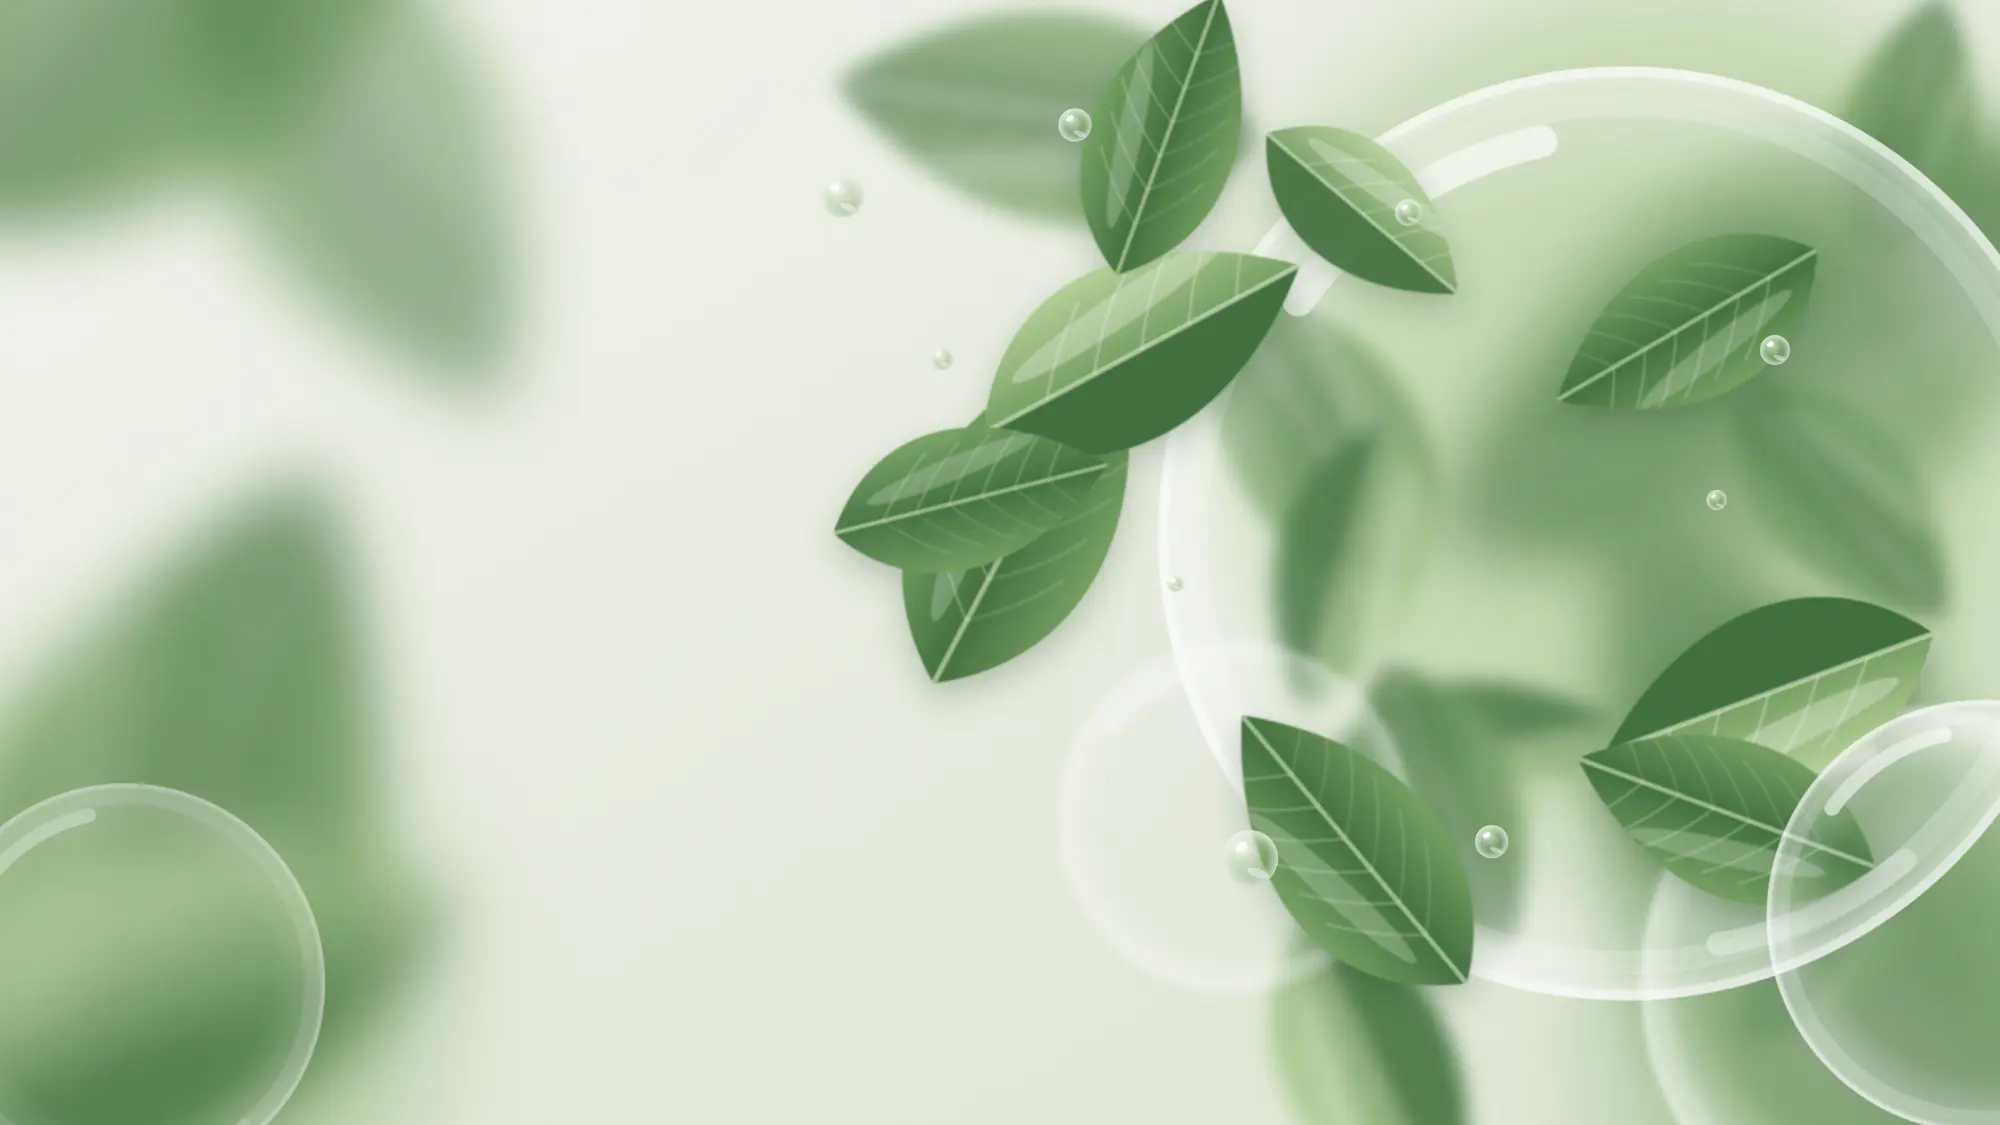
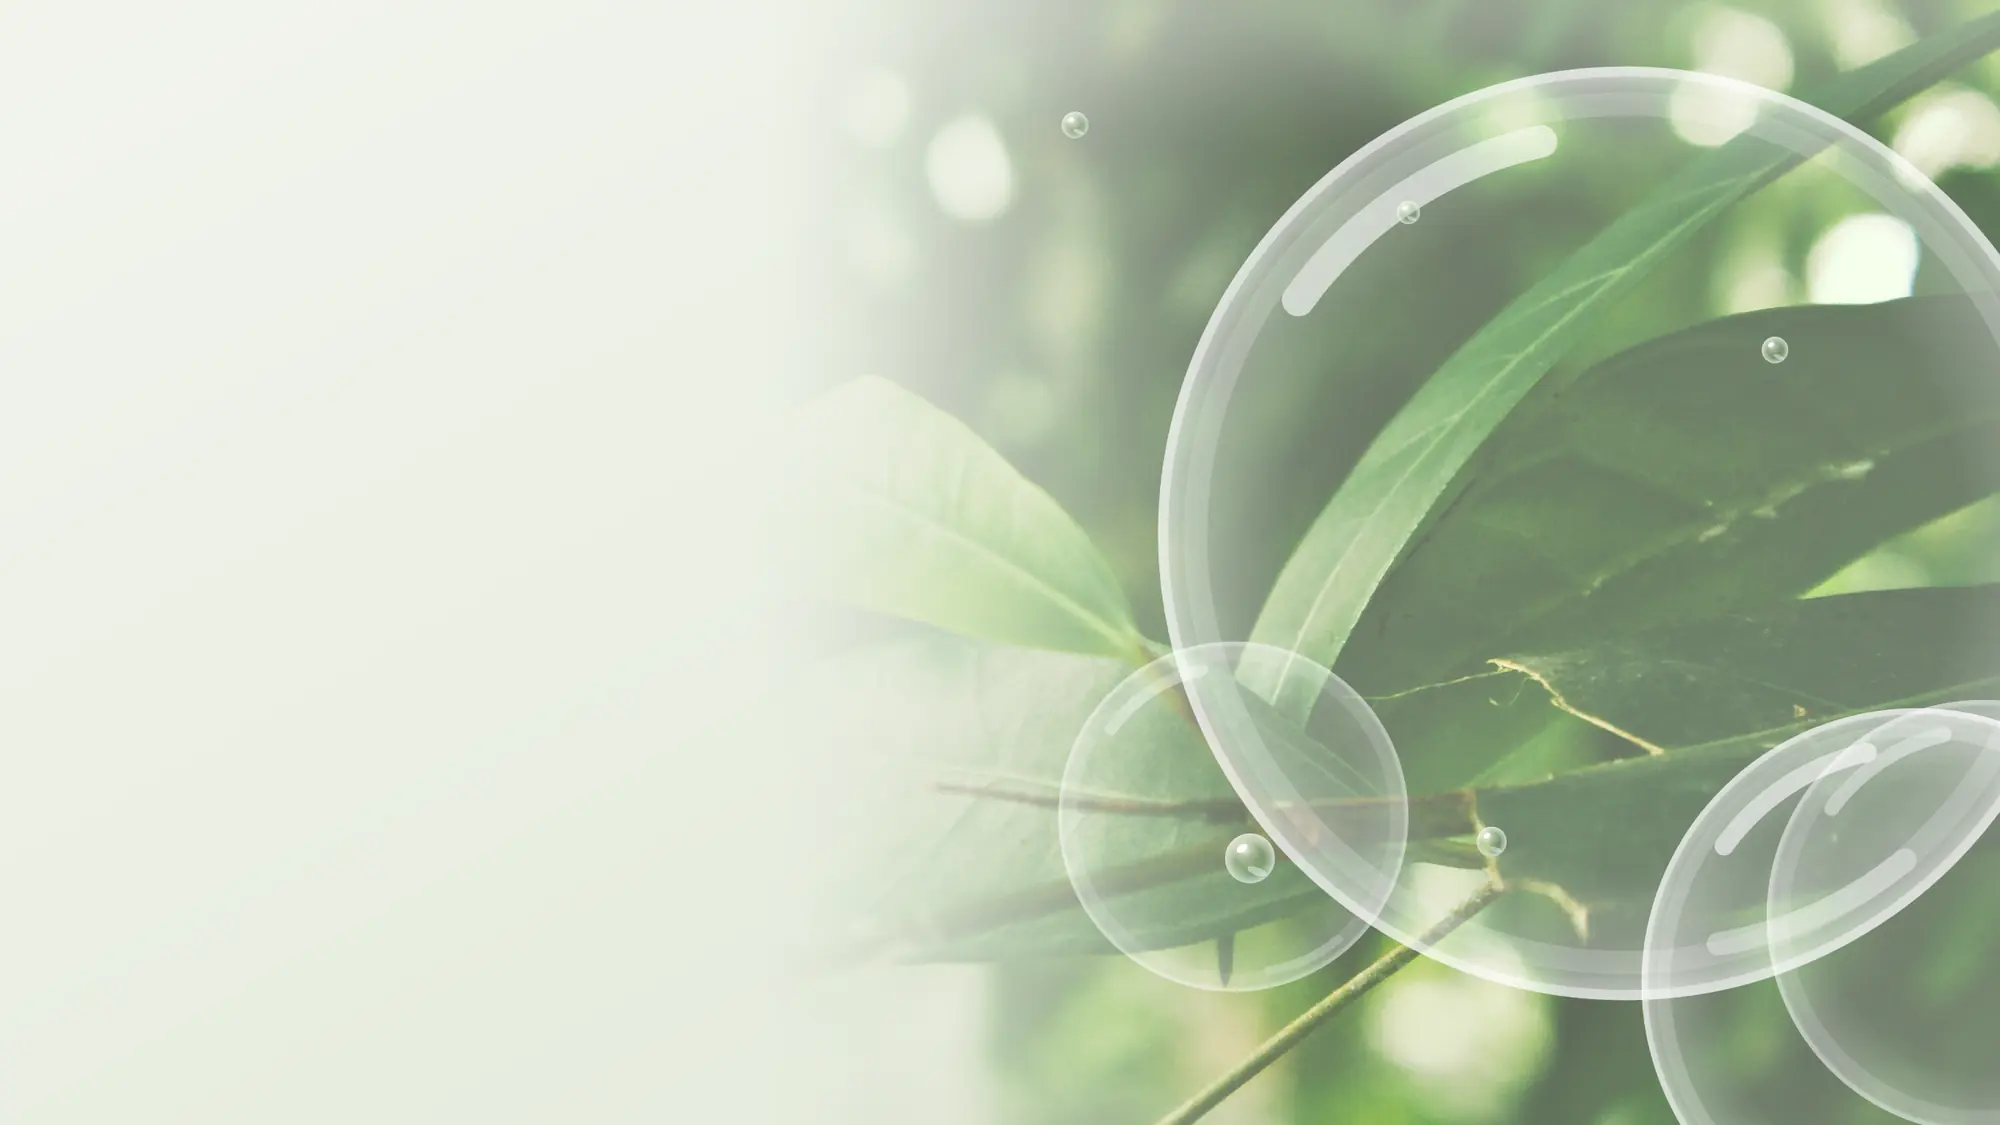
Realistic leaf photo backgrounds, lighter type, translucent buttons, remove hero portrait

diff --git a/app/globals.css b/app/globals.css
@@ -24,14 +24,14 @@ a{color:inherit;text-decoration:none}
 ul{list-style:none}
 :focus-visible{outline:3px solid var(--leaf);outline-offset:3px;border-radius:10px}
 .on-dark :focus-visible{outline-color:#CFE6B6}
-.num{font-family:"Clash Display","FiraGO",sans-serif;font-weight:600;font-variant-numeric:tabular-nums}
+.num{font-family:"Clash Display","FiraGO",sans-serif;font-weight:500;font-variant-numeric:tabular-nums}
 .wrap{width:100%;max-width:calc(var(--wrap) + var(--gut)*2);margin:0 auto;padding:0 var(--gut)}
 .sr{position:absolute;width:1px;height:1px;overflow:hidden;clip:rect(0 0 0 0);white-space:nowrap}
-h1,h2,h3,h4{color:var(--ink);font-weight:700;line-height:1.2;text-wrap:balance}
+h1,h2,h3,h4{color:var(--ink);font-weight:500;line-height:1.2;text-wrap:balance}
 h2{font-size:clamp(30px,3.7vw,54px);line-height:1.15}
-h3{font-size:clamp(19px,1.6vw,22px);line-height:1.3;font-weight:600}
+h3{font-size:clamp(19px,1.6vw,22px);line-height:1.3;font-weight:500}
 .lead{font-size:clamp(16px,1.35vw,19px);color:var(--text);max-width:56ch}
-.eyebrow{display:flex;align-items:center;gap:14px;font-size:14px;font-weight:600;color:var(--sage);margin-bottom:20px}
+.eyebrow{display:flex;align-items:center;gap:14px;font-size:14px;font-weight:500;color:var(--sage);margin-bottom:20px}
 .eyebrow::after{content:"";width:56px;height:1.5px;background:currentColor;opacity:.6}
 .eyebrow.center{justify-content:center}
 .eyebrow.center::before{content:"";width:44px;height:1.5px;background:currentColor;opacity:.6}
@@ -50,15 +50,15 @@ h3{font-size:clamp(19px,1.6vw,22px);line-height:1.3;font-weight:600}
 .vcard,.panel,.plan,.gcard,.tcard,.wk,.fq,.member,.wait input{background:linear-gradient(145deg,rgba(255,255,255,.72),rgba(255,255,255,.42));border:1px solid var(--white-line);box-shadow:var(--shadow),inset 0 1px 0 rgba(255,255,255,.9)}
 
 /* buttons */
-.btn{display:inline-flex;align-items:center;justify-content:center;gap:10px;min-height:54px;padding:0 30px;border-radius:99px;font-weight:600;font-size:16.5px;white-space:nowrap;transition:transform .3s var(--ease),background-color .25s,color .25s,box-shadow .3s}
+.btn{display:inline-flex;align-items:center;justify-content:center;gap:10px;min-height:54px;padding:0 30px;border-radius:99px;font-weight:500;font-size:16.5px;white-space:nowrap;transition:transform .3s var(--ease),background-color .25s,color .25s,box-shadow .3s}
 .btn svg{width:18px;height:18px;transition:transform .3s var(--ease)}
 .btn:hover svg{transform:translateX(3px)}
 .btn:active{transform:scale(.97)}
-.btn-forest{background:var(--forest);color:#fff;box-shadow:0 14px 26px -12px rgba(27,59,40,.7)}
-.btn-forest:hover{background:var(--forest2);transform:translateY(-2px)}
-.btn-ghost{background:rgba(255,255,255,.5);border:1px solid var(--line);color:var(--ink)}
-.btn-ghost:hover{background:rgba(255,255,255,.85);transform:translateY(-2px)}
-.btn-light{background:#fff;color:var(--forest);box-shadow:0 14px 30px -14px rgba(0,0,0,.5)}
+.btn-forest{background:rgba(27,59,40,.74);color:#fff;border:1px solid rgba(255,255,255,.32);box-shadow:0 14px 26px -14px rgba(27,59,40,.55),inset 0 1px 0 rgba(255,255,255,.22);backdrop-filter:blur(10px);-webkit-backdrop-filter:blur(10px)}
+.btn-forest:hover{background:rgba(27,59,40,.88);transform:translateY(-2px)}
+.btn-ghost{background:rgba(255,255,255,.26);border:1px solid rgba(27,59,40,.2);color:var(--ink);backdrop-filter:blur(10px);-webkit-backdrop-filter:blur(10px)}
+.btn-ghost:hover{background:rgba(255,255,255,.6);transform:translateY(-2px)}
+.btn-light{background:rgba(255,255,255,.78);color:var(--forest);border:1px solid rgba(255,255,255,.6);backdrop-filter:blur(10px);-webkit-backdrop-filter:blur(10px);box-shadow:0 14px 30px -16px rgba(0,0,0,.45)}
 .btn-light:hover{transform:translateY(-2px)}
 .badge-ic{width:64px;height:64px;border-radius:50%;flex:none;display:grid;place-items:center;color:var(--forest);background:radial-gradient(circle at 34% 28%,#fff 0,#E6EFDC 55%,#CFDDC2 100%);box-shadow:inset 0 -6px 12px rgba(79,127,75,.16),0 8px 18px -10px rgba(34,66,42,.5)}
 .badge-ic svg{width:28px;height:28px}
@@ -78,17 +78,16 @@ h3{font-size:clamp(19px,1.6vw,22px);line-height:1.3;font-weight:600}
 .mnav{position:fixed;inset:0;z-index:90;padding:20px var(--gut) 32px;background:var(--bg) url("/bg/hero-m.webp") center/cover no-repeat;display:flex;flex-direction:column;gap:20px}
 .mnav-top{display:flex;align-items:center;justify-content:space-between;min-height:56px}
 .mnav-links{display:flex;flex-direction:column;margin-top:8px;flex:1}
-.m-link{padding:18px 4px;font-size:24px;font-weight:600;color:var(--ink);border-bottom:1px solid var(--line)}
+.m-link{padding:18px 4px;font-size:24px;font-weight:500;color:var(--ink);border-bottom:1px solid var(--line)}
 .mnav .btn{width:100%}
 
 /* hero */
 .hero{position:relative;isolation:isolate;min-height:max(740px,100svh);padding:150px 0 90px;display:flex;align-items:center;overflow:hidden}
 .hero-bg{position:absolute;inset:0;z-index:-2;background:url("/bg/hero.webp") 70% center/cover no-repeat}
-.hero-woman{position:absolute;z-index:-1;right:11%;bottom:0;height:90%;width:auto;max-width:none;}
 .hero::after{content:"";position:absolute;left:0;right:0;bottom:0;height:140px;z-index:-1;background:linear-gradient(to bottom,transparent,var(--bg))}
 .hero-in{position:static;width:100%}
 .hero-copy{max-width:640px}
-.hero h1{font-size:clamp(38px,3.85vw,56px);line-height:1.12;font-weight:700;color:var(--forest)}
+.hero h1{font-size:clamp(38px,3.85vw,56px);line-height:1.12;font-weight:500;color:var(--forest)}
 .hero h1 span{display:block}
 .hero .lead{margin-top:26px;max-width:46ch}
 .hero-ctas{display:flex;gap:14px;margin-top:34px;flex-wrap:wrap}
@@ -163,7 +162,7 @@ h3{font-size:clamp(19px,1.6vw,22px);line-height:1.3;font-weight:600}
 .chat-user small{color:var(--leaf);font-size:12.5px}
 .cm{padding:11px 14px;border-radius:18px;font-size:14.5px;line-height:1.45;max-width:90%}
 .cm small{display:block;font-size:11px;opacity:.6;margin-top:3px}
-.cm.out{background:var(--forest);color:#fff;margin-left:auto;border-bottom-right-radius:6px}
+.cm.out{background:rgba(27,59,40,.85);color:#fff;margin-left:auto;border-bottom-right-radius:6px}
 .cm.in{background:var(--mint);color:var(--ink);border-bottom-left-radius:6px}
 .chat-photo{display:none}
 
@@ -171,7 +170,7 @@ h3{font-size:clamp(19px,1.6vw,22px);line-height:1.3;font-weight:600}
 .plans{display:grid;grid-template-columns:repeat(3,1fr);gap:22px;align-items:stretch;max-width:1100px;margin:0 auto}
 .plan{border-radius:34px;padding:30px;display:flex;flex-direction:column;gap:16px;position:relative}
 .plan.pop{background:linear-gradient(145deg,rgba(255,255,255,.92),rgba(238,246,230,.7));border:1.5px solid rgba(79,127,75,.5);box-shadow:0 34px 60px -28px rgba(34,66,42,.55),inset 0 1px 0 #fff;margin-top:-14px;padding-bottom:36px}
-.plan .badge{position:absolute;right:24px;top:-15px;display:inline-flex;align-items:center;gap:7px;background:var(--forest);color:#fff;font-size:13px;font-weight:600;padding:7px 16px;border-radius:99px}
+.plan .badge{position:absolute;right:24px;top:-15px;display:inline-flex;align-items:center;gap:7px;background:rgba(27,59,40,.8);color:#fff;font-size:13px;font-weight:500;padding:7px 16px;border-radius:99px}
 .plan .badge svg{width:15px;height:15px}
 .plan-top{display:flex;align-items:center;gap:16px}
 .plan-name{font-size:28px;line-height:1.1;color:var(--ink)}
@@ -179,7 +178,7 @@ h3{font-size:clamp(19px,1.6vw,22px);line-height:1.3;font-weight:600}
 .plan-price{display:flex;align-items:baseline;gap:8px;white-space:nowrap}
 .plan-price .num{font-size:46px;line-height:1;color:var(--ink)}
 .plan-price small{color:var(--muted);font-size:15px}
-.plan-first{font-size:14px;color:var(--leaf);font-weight:600;margin-top:-8px}
+.plan-first{font-size:14px;color:var(--leaf);font-weight:500;margin-top:-8px}
 .ticks{display:grid;gap:12px}
 .ticks li{display:flex;gap:12px;align-items:flex-start;font-size:15.5px}
 .ticks svg{width:21px;height:21px;color:var(--leaf);flex:none;margin-top:2px;padding:3px;border-radius:50%;background:var(--mint)}
@@ -189,7 +188,7 @@ h3{font-size:clamp(19px,1.6vw,22px);line-height:1.3;font-weight:600}
 .pay-note > span{display:inline-flex;align-items:center;gap:8px}
 .pay-note svg{width:18px;height:18px;color:var(--leaf)}
 .chips{display:flex;gap:8px;flex-wrap:wrap}
-.chip{border:1px solid var(--line);background:rgba(255,255,255,.6);border-radius:99px;padding:5px 14px;font-size:13px;font-weight:600;color:var(--ink)}
+.chip{border:1px solid var(--line);background:rgba(255,255,255,.6);border-radius:99px;padding:5px 14px;font-size:13px;font-weight:500;color:var(--ink)}
 
 /* personal plan */
 .road{text-align:center}
@@ -235,7 +234,7 @@ h3{font-size:clamp(19px,1.6vw,22px);line-height:1.3;font-weight:600}
 .wk-grid{display:grid;grid-template-columns:repeat(3,1fr);gap:18px;margin-bottom:40px}
 .wk{border-radius:28px;padding:22px 24px;display:flex;align-items:center;gap:18px;position:relative}
 .wk p{font-size:14.5px}
-.soon{position:absolute;right:18px;top:16px;font-size:12px;font-weight:600;background:var(--mint);color:var(--leaf);padding:3px 12px;border-radius:99px}
+.soon{position:absolute;right:18px;top:16px;font-size:12px;font-weight:500;background:var(--mint);color:var(--leaf);padding:3px 12px;border-radius:99px}
 .wait{display:flex;gap:12px;max-width:600px;margin:0 auto}
 .wait input,.news input{flex:1;min-width:0;min-height:56px;border-radius:99px;padding:0 24px;font-size:16px}
 .wait input:focus{outline:2px solid var(--leaf);outline-offset:2px}
@@ -243,7 +242,7 @@ h3{font-size:clamp(19px,1.6vw,22px);line-height:1.3;font-weight:600}
 /* faq */
 .faq{max-width:840px;margin:0 auto;display:grid;gap:12px}
 .fq{border-radius:24px;overflow:hidden}
-.fq button{width:100%;display:flex;align-items:center;justify-content:space-between;gap:16px;padding:22px 26px;font-size:17px;font-weight:600;text-align:left;color:var(--ink)}
+.fq button{width:100%;display:flex;align-items:center;justify-content:space-between;gap:16px;padding:22px 26px;font-size:17px;font-weight:500;text-align:left;color:var(--ink)}
 .fq svg{width:22px;height:22px;flex:none;color:var(--leaf);transition:transform .35s var(--ease)}
 .fq.open svg{transform:rotate(45deg)}
 .fq p{padding:0 26px 24px;font-size:16px}
@@ -260,7 +259,7 @@ h3{font-size:clamp(19px,1.6vw,22px);line-height:1.3;font-weight:600}
 .news{display:flex;gap:8px}
 .news input{background:rgba(255,255,255,.1);border:1px solid rgba(255,255,255,.22);box-shadow:none;color:#fff;min-height:52px}
 .news input::placeholder{color:rgba(255,255,255,.6)}
-.news button{width:52px;height:52px;border-radius:50%;background:#fff;color:var(--forest);display:grid;place-items:center;flex:none}
+.news button{width:52px;height:52px;border-radius:50%;background:rgba(255,255,255,.82);color:var(--forest);display:grid;place-items:center;flex:none}
 .news button svg{width:20px;height:20px}
 .ftr .chip{background:rgba(255,255,255,.1);border-color:rgba(255,255,255,.22);color:#fff}
 .ftr-bot{display:flex;justify-content:space-between;gap:16px;flex-wrap:wrap;padding-top:24px;border-top:1px solid rgba(255,255,255,.16);font-size:13.5px;color:rgba(255,255,255,.6)}
@@ -279,13 +278,13 @@ h3{font-size:clamp(19px,1.6vw,22px);line-height:1.3;font-weight:600}
 .m-close{position:absolute;right:14px;top:14px;width:46px;height:46px;border-radius:50%;display:grid;place-items:center;background:rgba(255,255,255,.9);color:var(--ink);z-index:3}
 .m-close svg{width:22px;height:22px}
 .wallets{display:grid;grid-template-columns:1fr 1fr;gap:10px}
-.wallet{min-height:54px;border-radius:99px;background:#000;color:#fff;font-weight:600;font-size:17px;display:flex;align-items:center;justify-content:center;transition:transform .2s}
+.wallet{min-height:54px;border-radius:99px;background:#000;color:#fff;font-weight:500;font-size:17px;display:flex;align-items:center;justify-content:center;transition:transform .2s}
 .wallet:active{transform:scale(.97)}
 .wallet.g{background:#fff;color:#111;border:1.5px solid #cfd8c9}
 .or{display:flex;align-items:center;gap:12px;color:var(--muted);font-size:14px}
 .or::before,.or::after{content:"";flex:1;height:1px;background:var(--line)}
 .fld{display:grid;gap:6px}
-.fld label{font-size:14px;font-weight:600;color:var(--ink)}
+.fld label{font-size:14px;font-weight:500;color:var(--ink)}
 .fld input{min-height:52px;border-radius:16px;border:1.5px solid var(--line);background:#fff;padding:0 16px;font-size:16px;width:100%}
 .fld input:focus{border-color:var(--leaf);outline:none}
 .fld input.bad{border-color:#b3261e}
@@ -297,15 +296,14 @@ h3{font-size:clamp(19px,1.6vw,22px);line-height:1.3;font-weight:600}
 .done{padding:60px 36px;text-align:center;grid-column:1/-1;display:flex;flex-direction:column;align-items:center;gap:16px}
 .done-ic{width:88px;height:88px;border-radius:50%;background:var(--leaf);color:#fff;display:grid;place-items:center}
 .done-ic svg{width:46px;height:46px}
-.toast{position:fixed;left:50%;bottom:24px;transform:translateX(-50%);z-index:200;background:var(--forest);color:#fff;padding:14px 24px;border-radius:99px;font-weight:600;box-shadow:0 14px 40px -10px rgba(0,0,0,.4);display:flex;gap:10px;align-items:center;max-width:calc(100vw - 32px)}
+.toast{position:fixed;left:50%;bottom:24px;transform:translateX(-50%);z-index:200;background:var(--forest);color:#fff;padding:14px 24px;border-radius:99px;font-weight:500;box-shadow:0 14px 40px -10px rgba(0,0,0,.4);display:flex;gap:10px;align-items:center;max-width:calc(100vw - 32px)}
 .toast svg{width:20px;height:20px;flex:none}
 
 /* responsive */
 @media (max-width:1180px){
   .vcards{grid-template-columns:repeat(2,1fr)}
   .links a{padding:10px 13px}
-  .hero-woman{right:6%}
-  .hc-ring{left:44%;width:min(390px,38vw)}
+    .hc-ring{left:44%;width:min(390px,38vw)}
   .hc-prog{width:min(250px,24vw)}
   .ftr-grid{grid-template-columns:1fr 1fr}
 }
@@ -320,8 +318,7 @@ h3{font-size:clamp(19px,1.6vw,22px);line-height:1.3;font-weight:600}
 @media (max-width:900px){
   .hero{min-height:0;padding:128px 0 56px;display:block}
   .hero-bg{background-image:url("/bg/hero-m.webp");background-position:60% top}
-  .hero-woman{display:none}
-  .hero::before{content:"";position:absolute;inset:0;z-index:-1;background:linear-gradient(100deg,rgba(236,241,230,.88) 0,rgba(236,241,230,.7) 45%,rgba(236,241,230,0) 92%)}
+    .hero::before{content:"";position:absolute;inset:0;z-index:-1;background:linear-gradient(100deg,rgba(236,241,230,.88) 0,rgba(236,241,230,.7) 45%,rgba(236,241,230,0) 92%)}
   .hero-copy{max-width:520px}
   .hero-cards{position:static;display:grid;gap:14px;margin-top:34px;max-width:520px;pointer-events:auto}
   .hcard{position:relative;inset:auto;width:auto !important}

diff --git a/components/Hero.js b/components/Hero.js
@@ -13,8 +13,6 @@ export default function Hero() {
   return (
     <section className="hero" id="top">
       <div className="hero-bg" aria-hidden="true" />
-      <motion.img className="hero-woman" src="/bg/woman.webp" alt="ბედნიერი გოგონა, რომელიც სახეს მზისკენ აღმართავს" width="1100" height="1363" fetchPriority="high"
-        initial={{ opacity: 0, scale: 1.04 }} animate={{ opacity: 1, scale: 1 }} transition={{ duration: 1.6, ease: [0.16, 1, 0.3, 1] }} />
 
       <div className="wrap hero-in">
         <div className="hero-copy">
